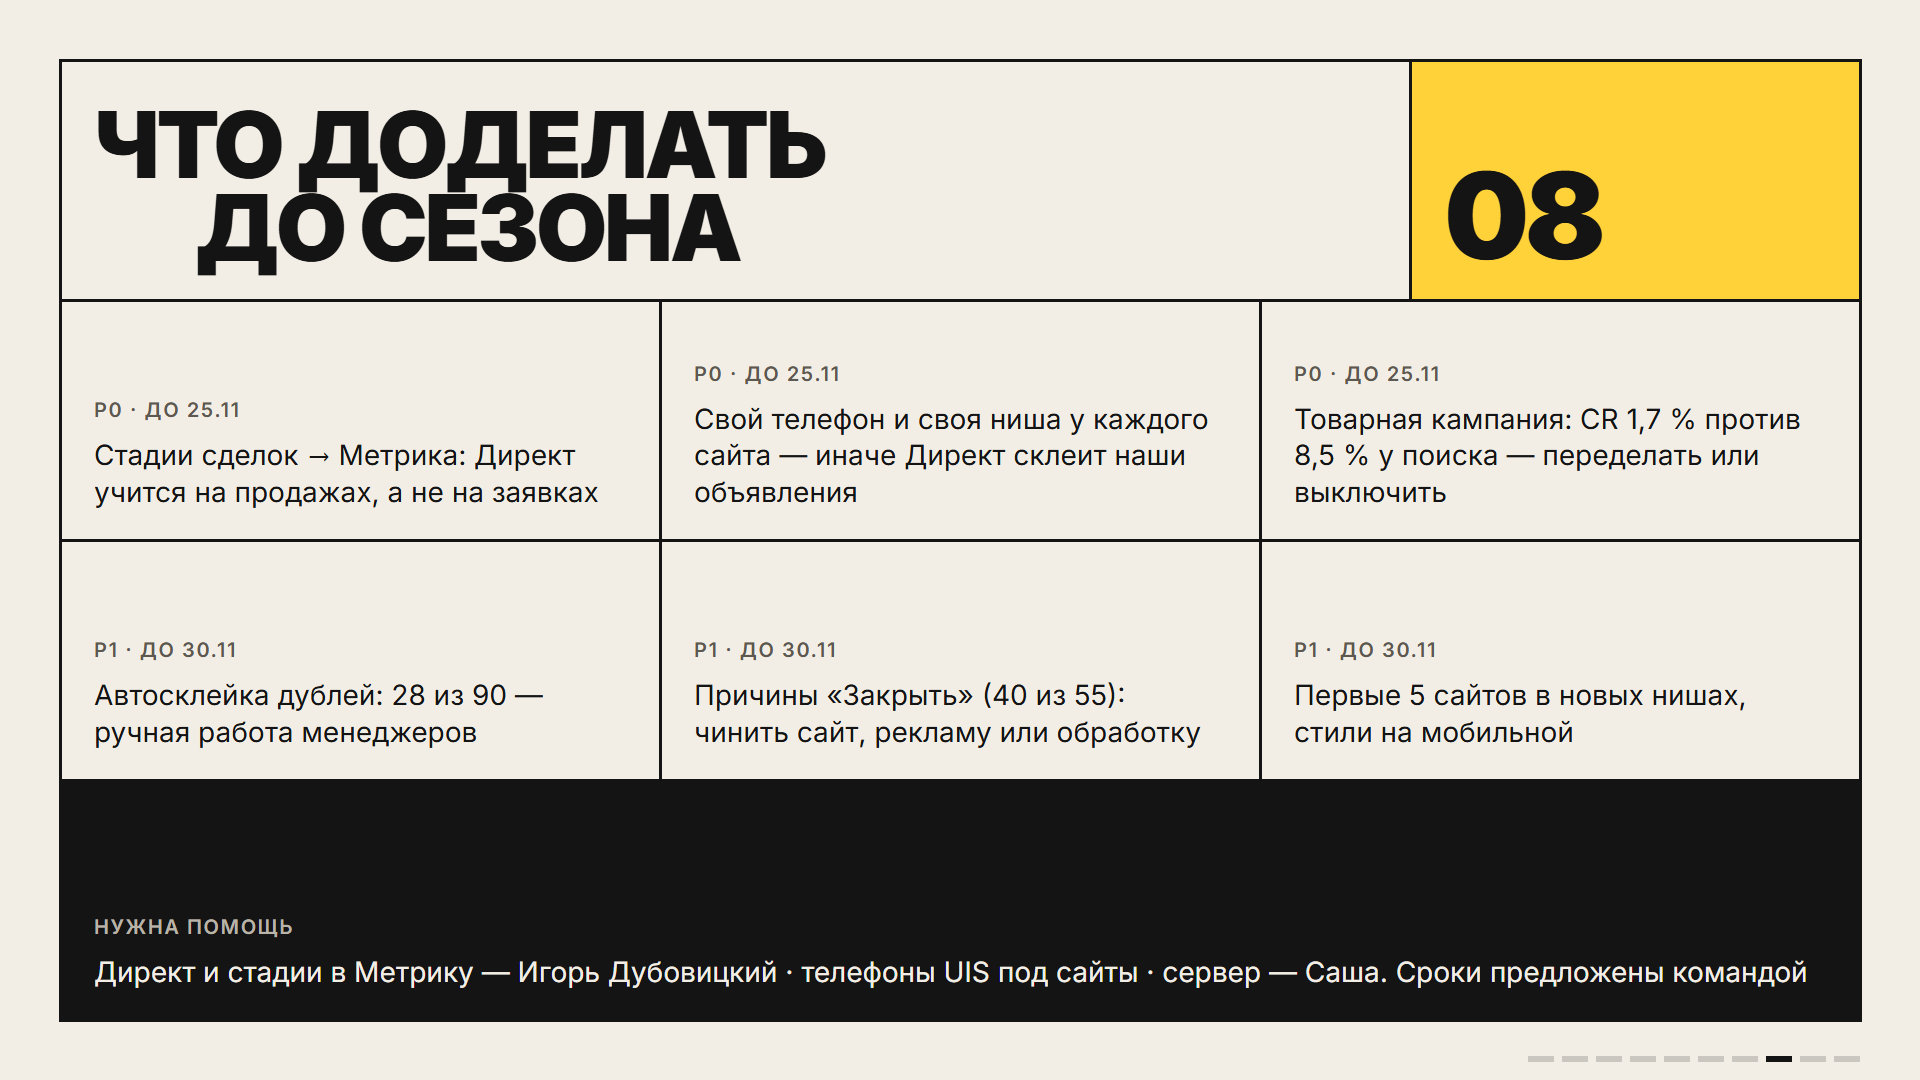
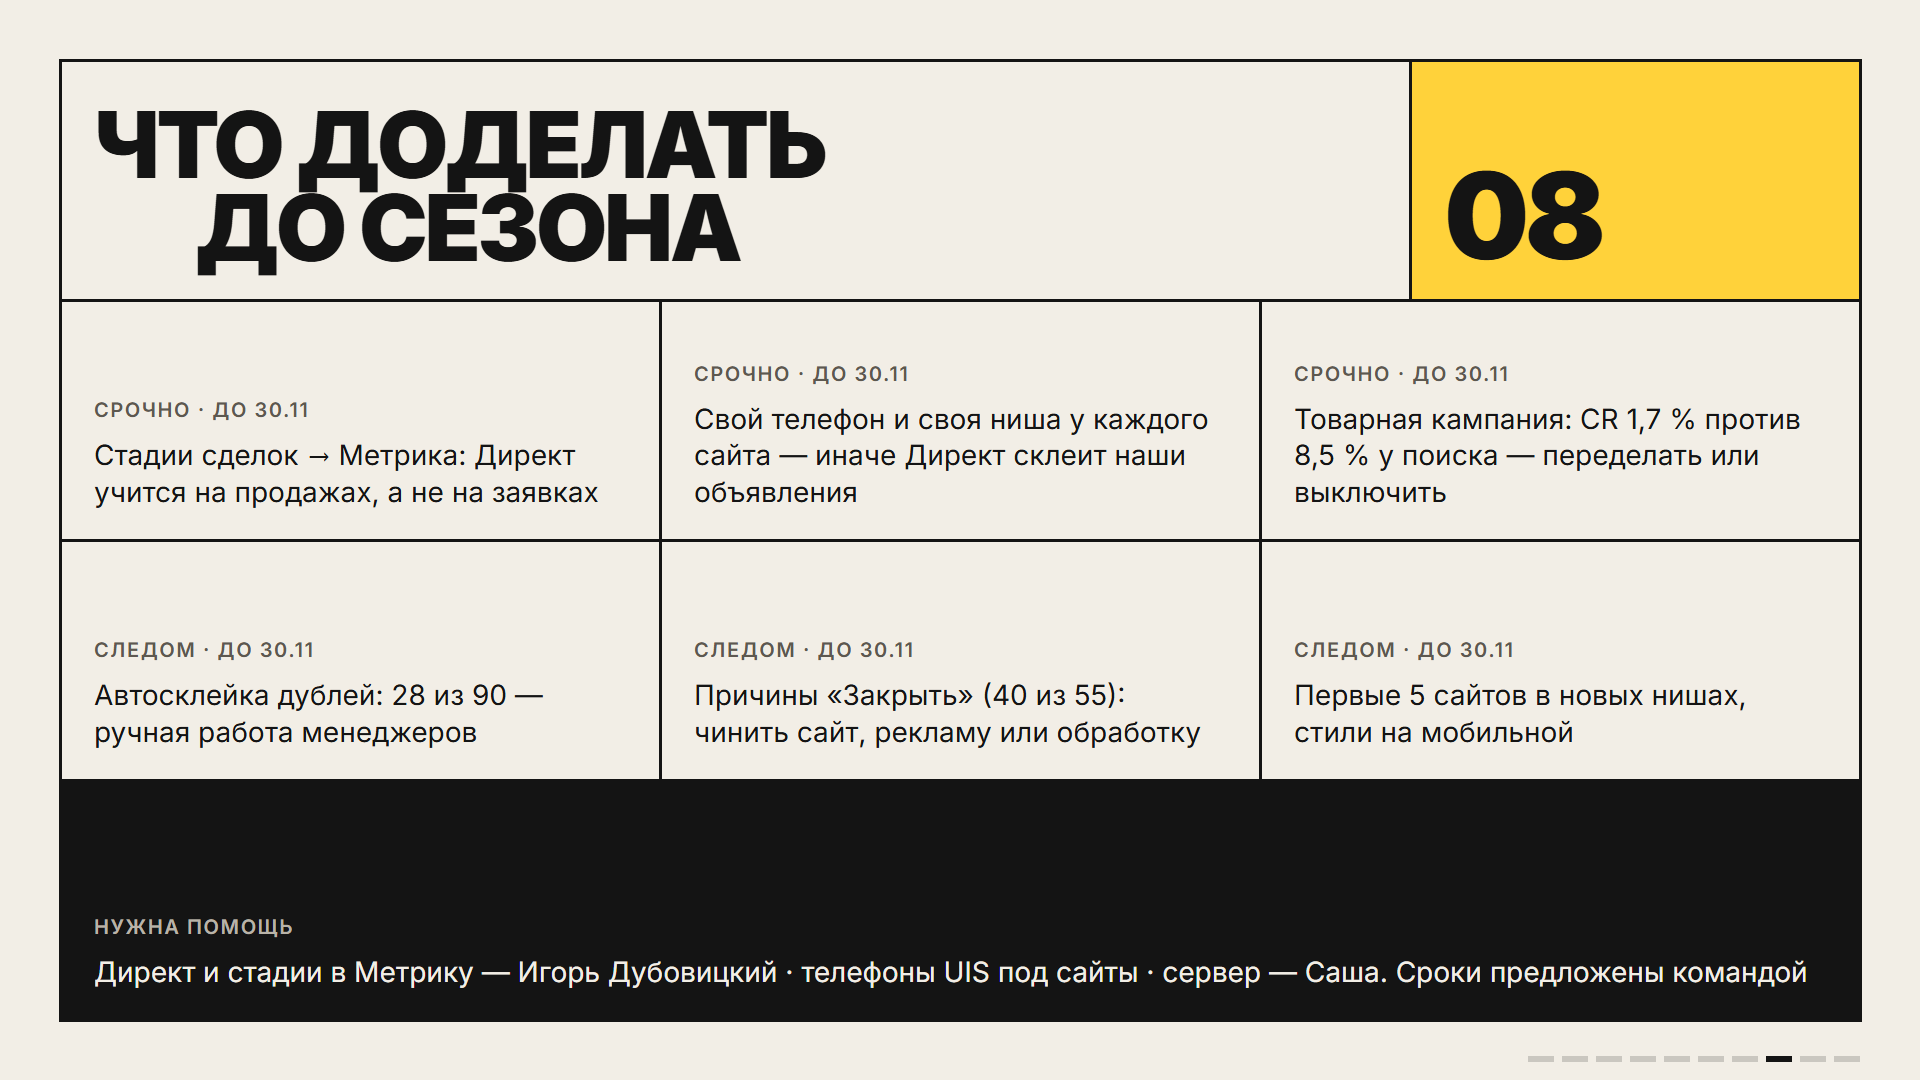
Преза: P0/P1 → словами, сроки 30.11, подписи расхода и выручки сайта понятнее (Связь т.11 №200)

diff --git a/index.html b/index.html
@@ -77,7 +77,7 @@
       <div class="c" style="grid-area: 3 / 4 / 6 / 7"><p class="k">Живых</p><p class="big">55</p><p class="small">без 28 дублей и 7 спама</p></div>
       <div class="c a" style="grid-area: 3 / 7 / 6 / 10"><p class="k" style="color: var(--ink)">В работе</p><p class="big">13</p><p class="small" style="color: var(--ink)">на 741 к ₽ · декабрь–январь</p></div>
       <div class="c" style="grid-area: 3 / 10 / 6 / 13"><p class="k">Проведено</p><p class="big">2</p><p class="small">13 975 ₽</p></div>
-      <div class="c" style="grid-area: 6 / 1 / 8 / 4"><p class="k">Директ</p><p class="mid-n">107 к ₽</p><p class="small">62 заявки · 1 729 ₽ за заявку</p></div>
+      <div class="c" style="grid-area: 6 / 1 / 8 / 4"><p class="k">Потрачено на Директ</p><p class="mid-n">107 к ₽</p><p class="small">с 20.10 · 62 заявки · 1 729 ₽ за заявку</p></div>
       <div class="c" style="grid-area: 6 / 4 / 8 / 7"><p class="k">Живая сделка</p><p class="mid-n">1 950 ₽</p><p class="small">у А+ ≈ 1 650 ₽</p></div>
       <div class="c d" style="grid-area: 6 / 7 / 8 / 10"><p class="k">Визит → сделка</p><p class="mid-n">2,3 %</p><p class="small">у А+ ≈ 1 % — в 2+ раза плотнее</p></div>
       <div class="c" style="grid-area: 6 / 10 / 8 / 13"><p class="k">Глубина</p><p class="mid-n">2 стр.</p><p class="small">за визит · у А+ 1,4</p></div>
@@ -89,11 +89,11 @@
     <div class="grid">
       <div class="c" style="grid-area: 1 / 1 / 3 / 10"><h2>Какой эффект<br><span class="shift">ждём в декабре</span></h2></div>
       <div class="c a" style="grid-area: 1 / 10 / 3 / 13"><p class="big">06</p></div>
-      <div class="c" style="grid-area: 3 / 1 / 6 / 5"><p class="k">Сейчас</p><p class="mid-n">14 к / 107 к</p><p class="small">проведено против рекламы: прошёл месяц, брони — на сезон</p></div>
+      <div class="c" style="grid-area: 3 / 1 / 6 / 5"><p class="k">Сейчас</p><p class="mid-n">14 к / 107 к</p><p class="small">проведено заказов против потраченного на рекламу с 20.10: брони — на сезон</p></div>
       <div class="c a" style="grid-area: 3 / 5 / 6 / 9"><p class="k" style="color: var(--ink)">Когда дозреет</p><p class="mid-n">≈ 530 к ₽</p><p class="small" style="color: var(--ink)">55 сделок × 12 % × 80 к — ×5 к рекламе</p></div>
       <div class="c" style="grid-area: 3 / 9 / 6 / 13"><p class="k">Окупаемость</p><p class="mid-n">15 %</p><p class="small">из 741 к открытых сделок</p></div>
       <div class="c d" style="grid-area: 6 / 1 / 9 / 7"><p class="k">План А+ на декабрь — 100 млн ₽</p><p class="lead">Закрыть разрыв только сайтами — 60–130 штук: к декабрю нереально. 5–10 сайтов — это +3–10 млн ₽ в месяц, с января</p></div>
-      <div class="c" style="grid-area: 6 / 7 / 9 / 13"><p class="k">Один нишевый сайт</p><p class="mid-n">0,5–1,1 млн ₽</p><p class="small">в месяц после обучения рекламы, при ~100 к ₽ бюджета. 0,5 — чек мебели, 1,1 — средний чек А+. Расчёт, не факт</p></div>
+      <div class="c" style="grid-area: 6 / 7 / 9 / 13"><p class="k">Один нишевый сайт — выручка в месяц</p><p class="mid-n">0,5–1,1 млн ₽</p><p class="small">на ~100 к ₽ рекламы, когда она обучится. 0,5 млн — если чек как у мебели (80 к), 1,1 млн — если как средний по А+ (126 к). Расчёт, не факт</p></div>
     </div>
   </section>
 
@@ -124,12 +124,12 @@
     <div class="grid">
       <div class="c" style="grid-area: 1 / 1 / 3 / 10"><h2>Что доделать<br><span class="shift">до сезона</span></h2></div>
       <div class="c a" style="grid-area: 1 / 10 / 3 / 13"><p class="big">08</p></div>
-      <div class="c" style="grid-area: 3 / 1 / 5 / 5"><p class="k">P0 · до 25.11</p><p>Стадии сделок → Метрика: Директ учится на продажах, а не на заявках</p></div>
-      <div class="c" style="grid-area: 3 / 5 / 5 / 9"><p class="k">P0 · до 25.11</p><p>Свой телефон и своя ниша у каждого сайта — иначе Директ склеит наши объявления</p></div>
-      <div class="c" style="grid-area: 3 / 9 / 5 / 13"><p class="k">P0 · до 25.11</p><p>Товарная кампания: CR 1,7 % против 8,5 % у поиска — переделать или выключить</p></div>
-      <div class="c" style="grid-area: 5 / 1 / 7 / 5"><p class="k">P1 · до 30.11</p><p>Автосклейка дублей: 28 из 90 — ручная работа менеджеров</p></div>
-      <div class="c" style="grid-area: 5 / 5 / 7 / 9"><p class="k">P1 · до 30.11</p><p>Причины «Закрыть» (40 из 55): чинить сайт, рекламу или обработку</p></div>
-      <div class="c" style="grid-area: 5 / 9 / 7 / 13"><p class="k">P1 · до 30.11</p><p>Первые 5 сайтов в новых нишах, стили на мобильной</p></div>
+      <div class="c" style="grid-area: 3 / 1 / 5 / 5"><p class="k">Срочно · до 30.11</p><p>Стадии сделок → Метрика: Директ учится на продажах, а не на заявках</p></div>
+      <div class="c" style="grid-area: 3 / 5 / 5 / 9"><p class="k">Срочно · до 30.11</p><p>Свой телефон и своя ниша у каждого сайта — иначе Директ склеит наши объявления</p></div>
+      <div class="c" style="grid-area: 3 / 9 / 5 / 13"><p class="k">Срочно · до 30.11</p><p>Товарная кампания: CR 1,7 % против 8,5 % у поиска — переделать или выключить</p></div>
+      <div class="c" style="grid-area: 5 / 1 / 7 / 5"><p class="k">Следом · до 30.11</p><p>Автосклейка дублей: 28 из 90 — ручная работа менеджеров</p></div>
+      <div class="c" style="grid-area: 5 / 5 / 7 / 9"><p class="k">Следом · до 30.11</p><p>Причины «Закрыть» (40 из 55): чинить сайт, рекламу или обработку</p></div>
+      <div class="c" style="grid-area: 5 / 9 / 7 / 13"><p class="k">Следом · до 30.11</p><p>Первые 5 сайтов в новых нишах, стили на мобильной</p></div>
       <div class="c d" style="grid-area: 7 / 1 / 9 / 13"><p class="k">Нужна помощь</p><p>Директ и стадии в Метрику — Игорь Дубовицкий · телефоны UIS под сайты · сервер — Саша. Сроки предложены командой</p></div>
     </div>
   </section>
